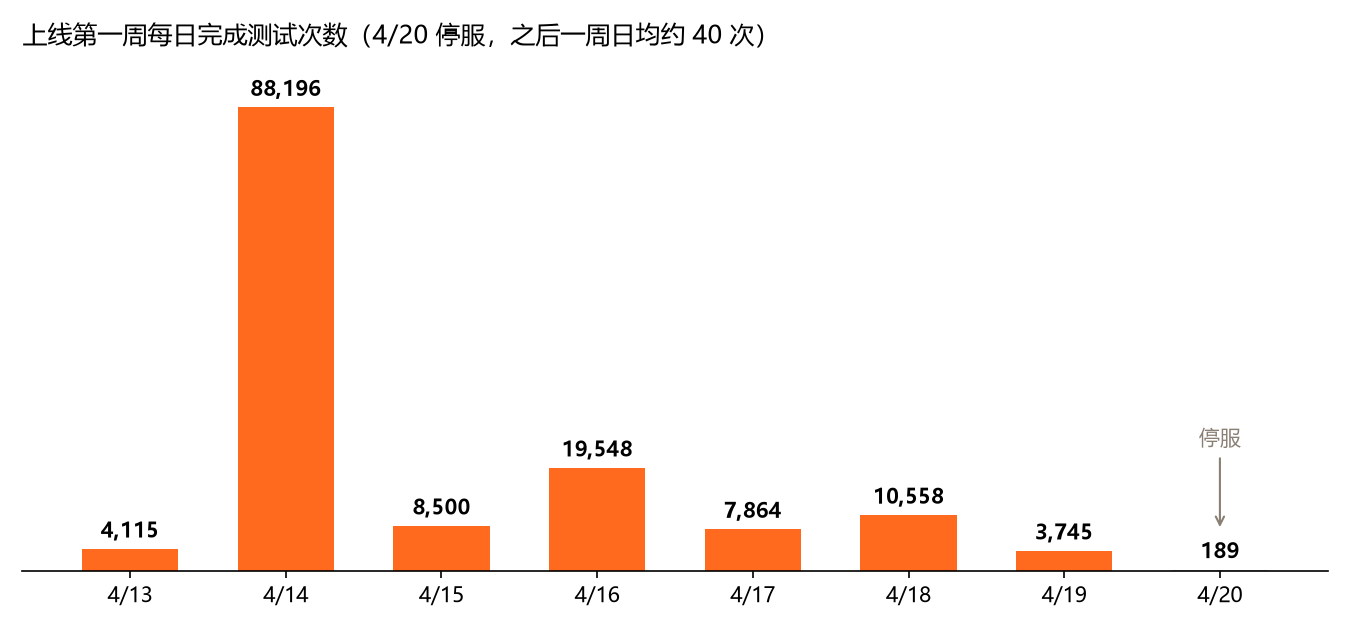
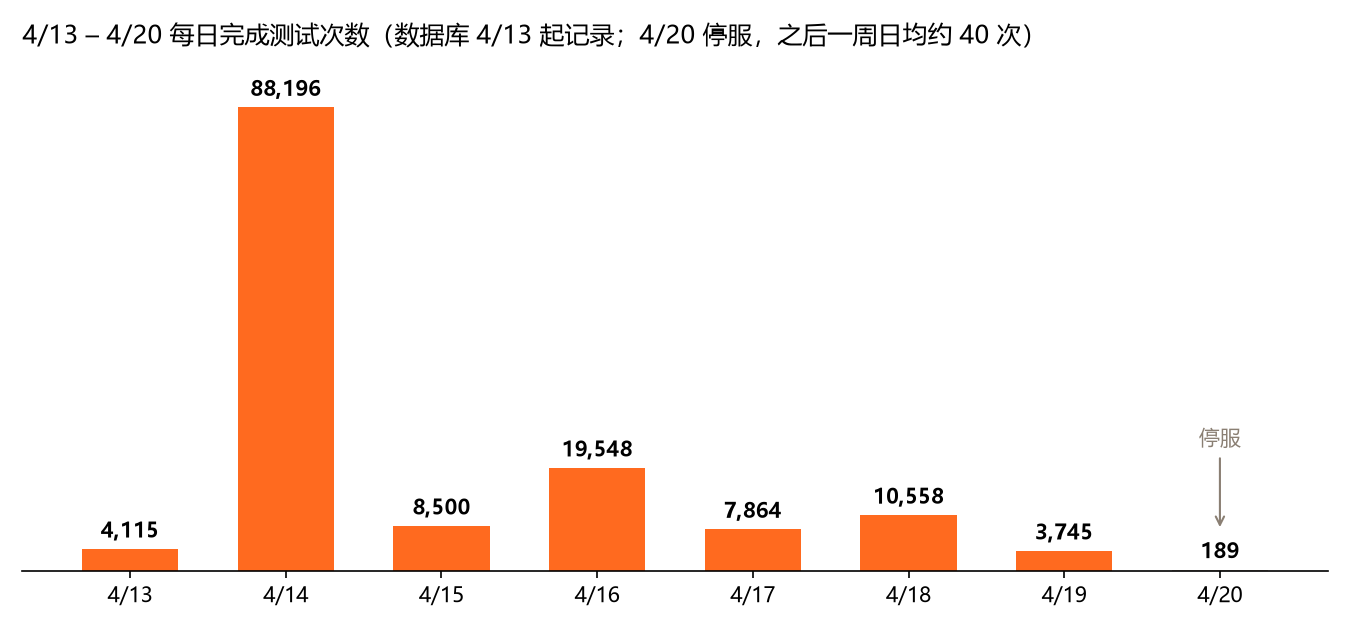
README: add Google Analytics numbers; fix launch-day wording

Changed region(s): [[0.0, 0.0302, 0.7778, 0.0905]]

diff --git a/README.md b/README.md
@@ -2,7 +2,7 @@
 
 一个历史人格测试网页游戏：回答一组皇帝视角的情境题，看看你的决策风格和哪位中国皇帝最接近。
 
-**上线 16 天，累计完成测试 143,040 次，上线第 2 天单日 88,196 次。** 独立完成策划、题目设计、开发和运营。
+**2026 年 4 月独立用户 127,214 人（Google Analytics），自建数据库 16 天记录完成测试 143,040 次。** 独立完成策划、题目设计、前后端开发和运营。
 
 ![首页](docs/home.jpg)
 
@@ -16,18 +16,29 @@
 
 ## 数据
 
-数据来自自建的作答记录表（每完成一次测试写入一条：结果、模式、用时、每题答案），时间范围 2026-04-13 至 04-28。
+两个数据来源：
+
+- **Google Analytics 4**：用户、来源、设备。从 2026-04-12 开始有数据。
+- **自建作答记录表**（Supabase）：每完成一次测试写入一条，记录结果、模式、用时和每题答案。时间范围 2026-04-13 至 04-28。
+
+两者都是上线一段时间之后才接入的，所以下面的数字都低于实际值。
+
+| 指标 | 数值 | 来源 |
+|---|---|---|
+| 独立用户（4 月） | 127,214 人 | GA |
+| 浏览量（4 月） | 约 32.5 万次 | GA |
+| 人均投入时长 | 9 分 04 秒 | GA |
+| 移动端占比 | 83.5% | GA |
+| App 内置浏览器打开 | 63%（多为分享链接） | GA |
+| 最大外部来源 | 豆瓣，约 5,400 人 | GA |
+| 累计完成测试 | 143,040 次 | 记录表 |
+| 单日峰值 | 88,196 次（4 月 14 日） | 记录表 |
+| 完整版占比 | 63%（89,624 次） | 记录表 |
+| 作答时长中位数 | 4 分钟 | 记录表 |
 
 ![每日完成次数](docs/daily.png)
 
-| 指标 | 数值 |
-|---|---|
-| 累计完成测试 | 143,040 次 |
-| 单日峰值 | 88,196 次（4 月 14 日，上线第 2 天） |
-| 完整版占比 | 63%（89,624 次） |
-| 作答时长中位数 | 4 分钟 |
-
-说明：统计口径是**完成次数**，不是独立用户数。记录里没有用户标识，无法去重。
+说明：记录表里没有用户标识，「完成次数」不能直接当人数；人数以 GA 为准。
 
 ## 复盘
 
